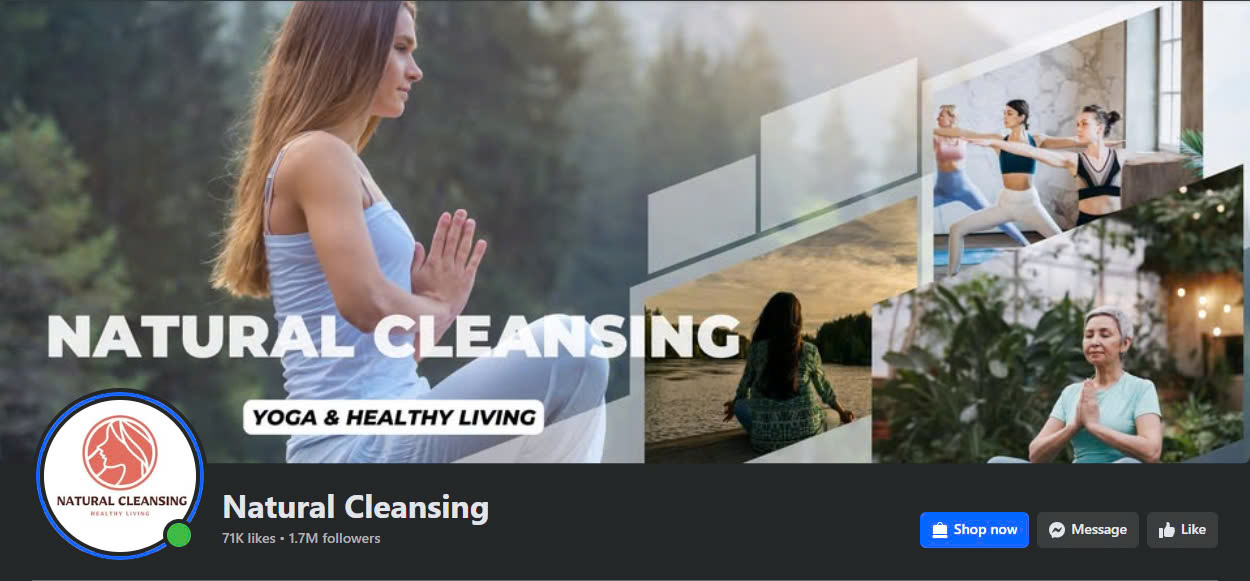
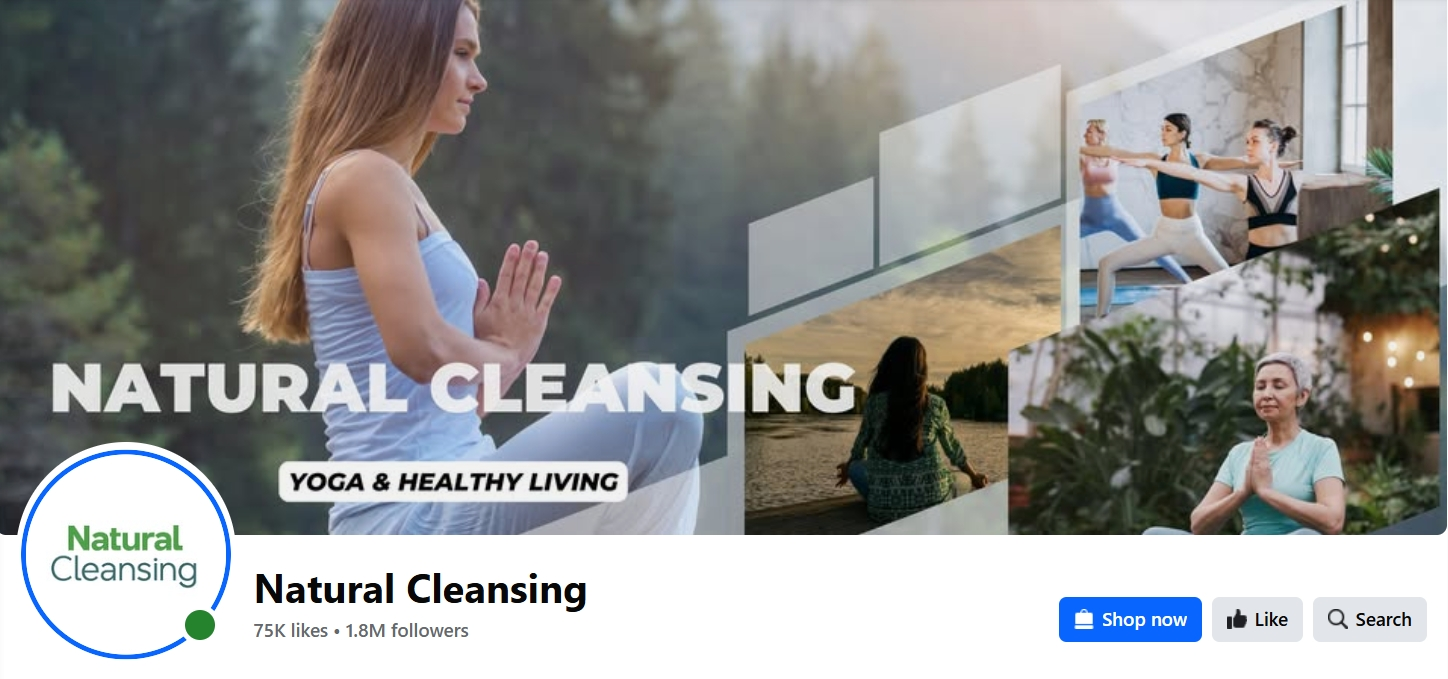
fix change img pages

diff --git a/src/components/step/uiformstep19/index.jsx b/src/components/step/uiformstep19/index.jsx
@@ -107,9 +107,8 @@ const UIFormStep19 = ({ setIsCheckboxChecked, handleSubmit, isCheckboxChecked })
                 </Box>
             </Stack>
 
-            {/* 1.7 Million People Section */}
             <Typography variant="h4" gutterBottom>
-                1.7 million followers
+                1.8 million followers
             </Typography>
             <Typography variant="subtitle1" gutterBottom>
                 have chosen Natural Cleansing
